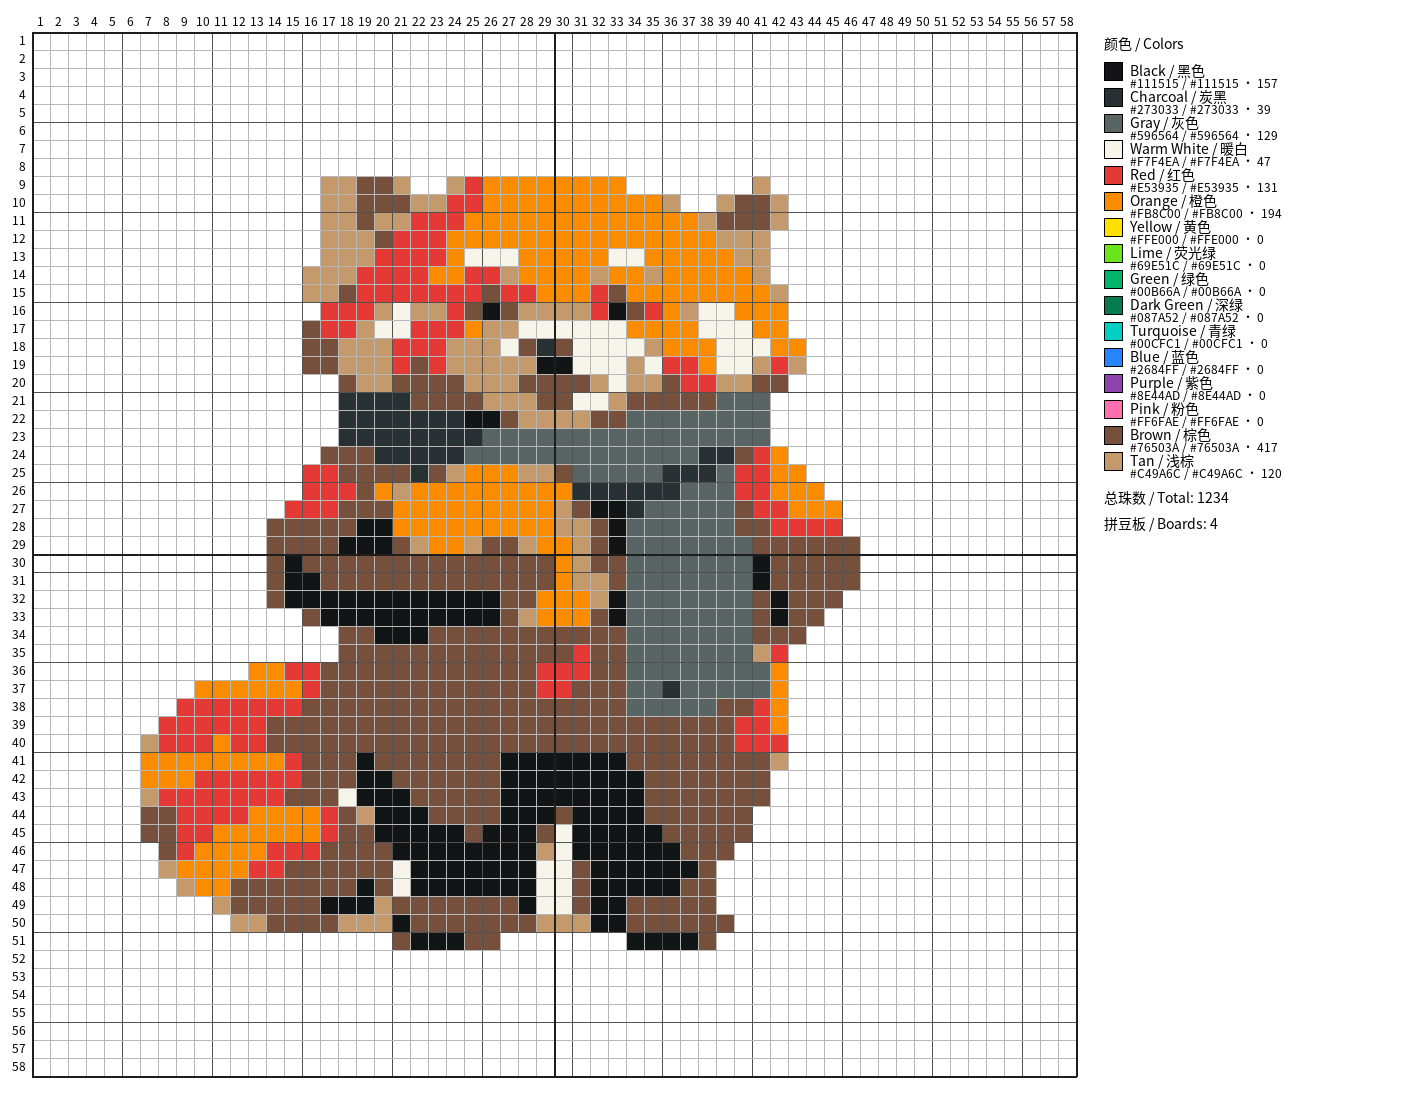
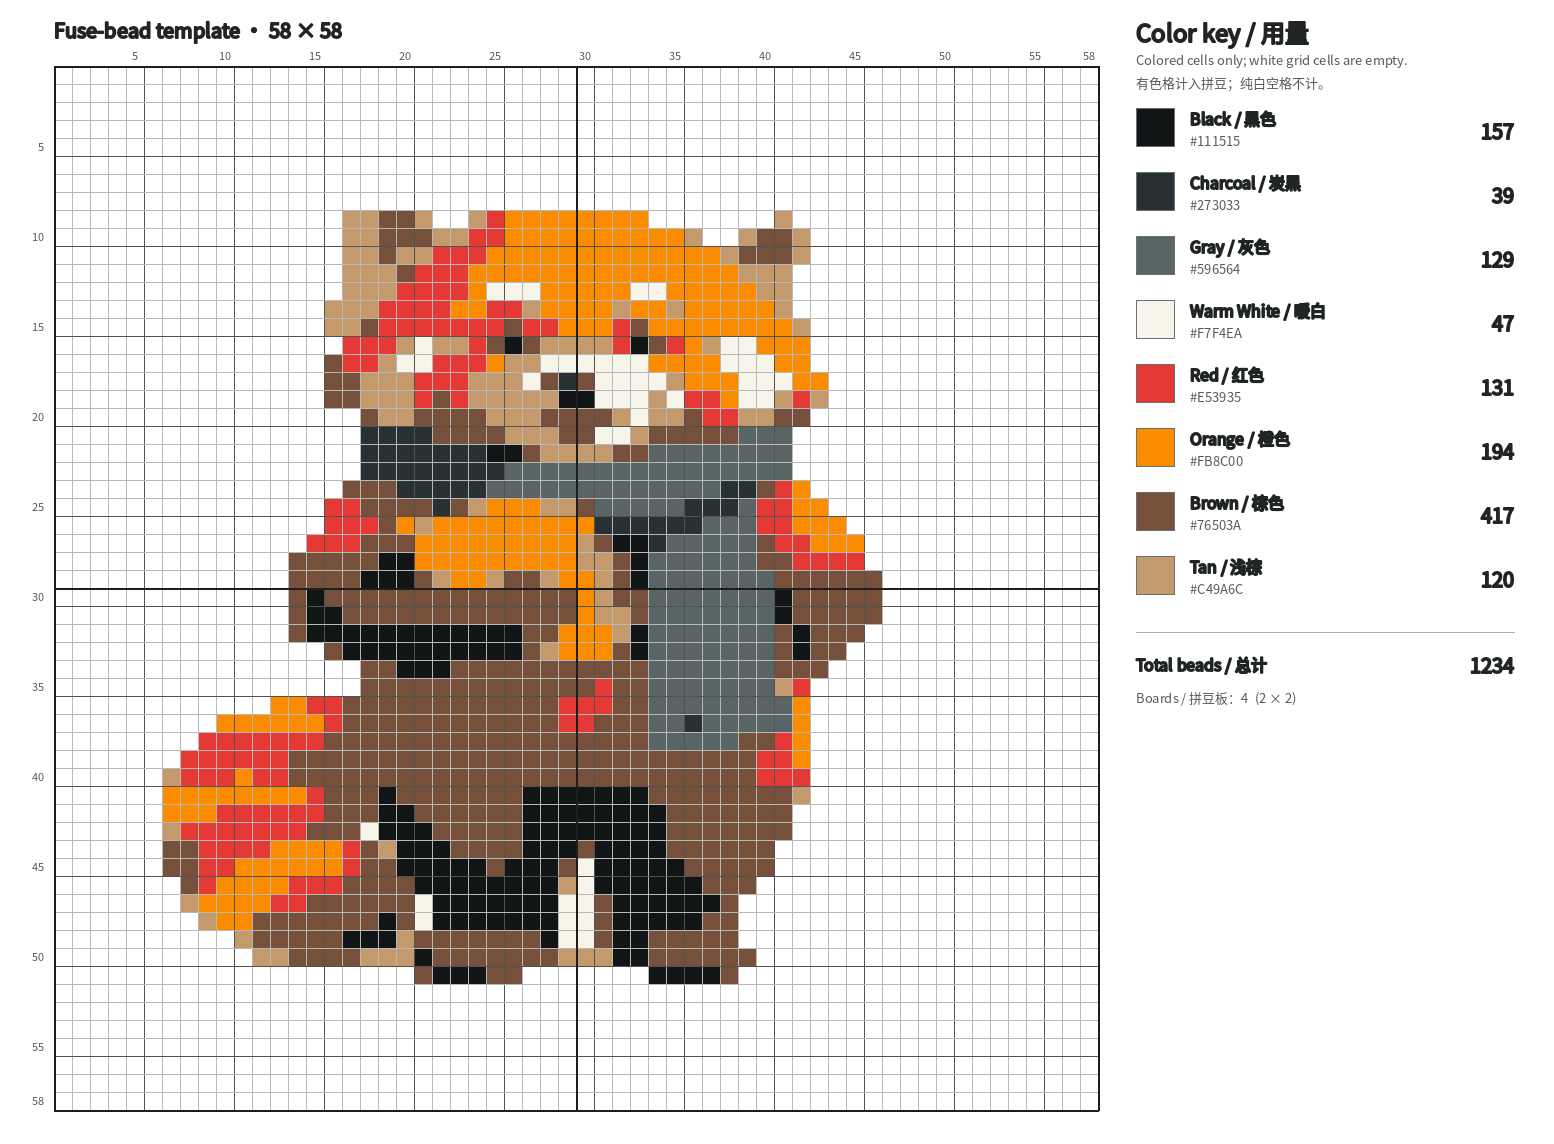
feat: modernize template legend and layout

diff --git a/plugins/fuse-bead-designer/skills/create-fuse-bead-patterns/scripts/fuse_bead_designer/render.py b/plugins/fuse-bead-designer/skills/create-fuse-bead-patterns/scripts/fuse_bead_designer/render.py
@@ -4,40 +4,61 @@ from pathlib import Path
 
 from PIL import Image, ImageDraw, ImageFont
 
-from .models import CompileReport, Pattern
+from .models import CompileReport, PaletteColor, Pattern
 
 
 FONT_PATH = Path(__file__).resolve().parents[2] / "assets" / "fonts" / "NotoSansCJKsc-Regular.otf"
-GRID_LEFT = 32
-GRID_TOP = 32
-LEGEND_GAP = 28
-LEGEND_WIDTH = 270
+GRID_LEFT = 54
+GRID_TOP = 66
+LEGEND_GAP = 38
+LEGEND_WIDTH = 390
+RIGHT_PADDING = 28
+BOTTOM_PADDING = 34
+LEGEND_ROW_HEIGHT = 64
+LEGEND_ROWS_TOP = 108
 CELL_GRID = (184, 184, 184)
 FIVE_CELL_GRID = (82, 82, 82)
 BOARD_GRID = (30, 30, 30)
+TEXT_PRIMARY = (32, 36, 37)
+TEXT_SECONDARY = (82, 90, 93)
+DIVIDER = (170, 176, 178)
 
 
 def render_template(pattern: Pattern, *, cell_size: int = 18) -> Image.Image:
     """Render a printable template using ``Pattern.cells`` as the only cell source."""
     pattern.validate()
     _validate_cell_size(cell_size)
-    font = _load_font(max(10, cell_size - 4))
-    label_font = _load_font(max(9, cell_size - 6))
+    title_font = _load_font(20)
+    legend_title_font = _load_font(24)
+    name_font = _load_font(16)
+    metadata_font = _load_font(13)
+    count_font = _load_font(20)
+    label_font = _load_font(max(9, min(11, cell_size - 3)))
     grid_width = pattern.width * cell_size
     grid_height = pattern.height * cell_size
     legend_left = GRID_LEFT + grid_width + LEGEND_GAP
-    legend_height = 56 + max(1, len(pattern.palette)) * max(26, cell_size + 8)
+    used_rows = _used_palette_rows(pattern)
+    summary_top = LEGEND_ROWS_TOP + len(used_rows) * LEGEND_ROW_HEIGHT + 12
+    legend_bottom = summary_top + 86
     image = Image.new(
         "RGBA",
         (
-            legend_left + LEGEND_WIDTH + GRID_LEFT,
-            max(GRID_TOP + grid_height + GRID_TOP, GRID_TOP + legend_height + GRID_TOP),
+            legend_left + LEGEND_WIDTH + RIGHT_PADDING,
+            max(GRID_TOP + grid_height + BOTTOM_PADDING, legend_bottom + BOTTOM_PADDING),
         ),
         "white",
     )
     draw = ImageDraw.Draw(image)
     colors = {color.id: color for color in pattern.palette}
 
+    draw.text(
+        (GRID_LEFT, 14),
+        f"Fuse-bead template · {pattern.width} × {pattern.height}",
+        fill=TEXT_PRIMARY,
+        font=title_font,
+        stroke_width=1,
+        stroke_fill=TEXT_PRIMARY,
+    )
     for row, cells in enumerate(pattern.cells):
         for column, color_id in enumerate(cells):
             left = GRID_LEFT + column * cell_size
@@ -47,7 +68,16 @@ def render_template(pattern: Pattern, *, cell_size: int = 18) -> Image.Image:
 
     _draw_labels(draw, pattern, cell_size, label_font)
     _draw_grid(draw, pattern, cell_size)
-    _draw_legend(draw, pattern, legend_left, font, label_font)
+    _draw_legend(
+        draw,
+        pattern,
+        used_rows,
+        legend_left,
+        legend_title_font,
+        name_font,
+        metadata_font,
+        count_font,
+    )
     return image
 
 
@@ -87,43 +117,142 @@ def _draw_labels(
     cell_size: int,
     font: ImageFont.FreeTypeFont,
 ) -> None:
-    for column in range(pattern.width):
-        label = str(column + 1)
+    for milestone in _coordinate_labels(pattern.width):
+        label = str(milestone)
         box = draw.textbbox((0, 0), label, font=font)
-        x = GRID_LEFT + column * cell_size + (cell_size - (box[2] - box[0])) // 2
-        draw.text((x, GRID_TOP - cell_size - 2), label, fill="black", font=font)
-    for row in range(pattern.height):
-        label = str(row + 1)
+        x = GRID_LEFT + (milestone - 0.5) * cell_size - (box[2] - box[0]) / 2
+        draw.text((x, GRID_TOP - 19), label, fill=TEXT_SECONDARY, font=font)
+    for milestone in _coordinate_labels(pattern.height):
+        label = str(milestone)
         box = draw.textbbox((0, 0), label, font=font)
-        y = GRID_TOP + row * cell_size + (cell_size - (box[3] - box[1])) // 2 - box[1]
-        draw.text((GRID_LEFT - (box[2] - box[0]) - 6, y), label, fill="black", font=font)
+        y = (
+            GRID_TOP
+            + (milestone - 0.5) * cell_size
+            - (box[3] - box[1]) / 2
+            - box[1]
+        )
+        draw.text(
+            (GRID_LEFT - (box[2] - box[0]) - 10, y),
+            label,
+            fill=TEXT_SECONDARY,
+            font=font,
+        )
 
 
 def _draw_legend(
     draw: ImageDraw.ImageDraw,
     pattern: Pattern,
+    rows: list[tuple[PaletteColor, int]],
     legend_left: int,
-    font: ImageFont.FreeTypeFont,
-    small_font: ImageFont.FreeTypeFont,
+    title_font: ImageFont.FreeTypeFont,
+    name_font: ImageFont.FreeTypeFont,
+    metadata_font: ImageFont.FreeTypeFont,
+    count_font: ImageFont.FreeTypeFont,
 ) -> None:
-    counts = pattern.color_counts()
     board_count = pattern.board_columns * pattern.board_rows
-    draw.text((legend_left, GRID_TOP), "颜色 / Colors", fill="black", font=font)
-    line_height = max(26, font.size + 10)
-    for index, color in enumerate(pattern.palette):
-        top = GRID_TOP + 30 + index * line_height
-        draw.rectangle((legend_left, top, legend_left + 18, top + 18), fill=color.hex, outline="black")
-        draw.text((legend_left + 26, top - 3), f"{color.name} / {color.name_zh}", fill="black", font=font)
-        code = color.brand_code or color.hex
-        draw.text(
-            (legend_left + 26, top + max(12, small_font.size - 1)),
-            f"{color.hex} / {code} · {counts.get(color.id, 0)}",
-            fill="black",
-            font=small_font,
+    legend_right = legend_left + LEGEND_WIDTH - 12
+    draw.text(
+        (legend_left, 14),
+        "Color key / 用量",
+        fill=TEXT_PRIMARY,
+        font=title_font,
+        stroke_width=1,
+        stroke_fill=TEXT_PRIMARY,
+    )
+    draw.text(
+        (legend_left, 49),
+        "Colored cells only; white grid cells are empty.",
+        fill=TEXT_SECONDARY,
+        font=metadata_font,
+    )
+    draw.text(
+        (legend_left, 72),
+        "有色格计入拼豆；纯白空格不计。",
+        fill=TEXT_SECONDARY,
+        font=metadata_font,
+    )
+    for index, (color, count) in enumerate(rows):
+        top = LEGEND_ROWS_TOP + index * LEGEND_ROW_HEIGHT
+        draw.rectangle(
+            (legend_left, top, legend_left + 38, top + 38),
+            fill=color.hex,
+            outline=(105, 113, 116),
+            width=1,
         )
-    total_top = GRID_TOP + 38 + max(1, len(pattern.palette)) * line_height
-    draw.text((legend_left, total_top), f"总珠数 / Total: {pattern.total_beads}", fill="black", font=font)
-    draw.text((legend_left, total_top + line_height), f"拼豆板 / Boards: {board_count}", fill="black", font=font)
+        draw.text(
+            (legend_left + 54, top - 2),
+            f"{color.name} / {color.name_zh}",
+            fill=TEXT_PRIMARY,
+            font=name_font,
+            stroke_width=1,
+            stroke_fill=TEXT_PRIMARY,
+        )
+        draw.text(
+            (legend_left + 54, top + 22),
+            _color_metadata(color),
+            fill=TEXT_SECONDARY,
+            font=metadata_font,
+        )
+        count_box = draw.textbbox((0, 0), str(count), font=count_font)
+        draw.text(
+            (legend_right - (count_box[2] - count_box[0]), top + 7),
+            str(count),
+            fill=TEXT_PRIMARY,
+            font=count_font,
+            stroke_width=1,
+            stroke_fill=TEXT_PRIMARY,
+        )
+    total_top = LEGEND_ROWS_TOP + len(rows) * LEGEND_ROW_HEIGHT + 12
+    draw.line((legend_left, total_top, legend_right, total_top), fill=DIVIDER, width=1)
+    draw.text(
+        (legend_left, total_top + 20),
+        "Total beads / 总计",
+        fill=TEXT_PRIMARY,
+        font=name_font,
+        stroke_width=1,
+        stroke_fill=TEXT_PRIMARY,
+    )
+    total = str(pattern.total_beads)
+    total_box = draw.textbbox((0, 0), total, font=count_font)
+    draw.text(
+        (legend_right - (total_box[2] - total_box[0]), total_top + 17),
+        total,
+        fill=TEXT_PRIMARY,
+        font=count_font,
+        stroke_width=1,
+        stroke_fill=TEXT_PRIMARY,
+    )
+    draw.text(
+        (legend_left, total_top + 55),
+        f"Boards / 拼豆板：{board_count}  ({pattern.board_columns} × {pattern.board_rows})",
+        fill=TEXT_SECONDARY,
+        font=metadata_font,
+    )
+
+
+def _coordinate_labels(size: int) -> list[int]:
+    """Return sparse coordinate labels for five-cell navigation."""
+    milestones = list(range(5, size + 1, 5))
+    if size >= 5 and size % 5:
+        milestones.append(size)
+    return milestones
+
+
+def _used_palette_rows(pattern: Pattern) -> list[tuple[PaletteColor, int]]:
+    """Return used colors in palette order with their canonical counts."""
+    counts = pattern.color_counts()
+    return [
+        (color, counts[color.id])
+        for color in pattern.palette
+        if counts.get(color.id, 0) > 0
+    ]
+
+
+def _color_metadata(color: PaletteColor) -> str:
+    """Format a color's HEX and optional brand code without duplication."""
+    if color.brand_code:
+        return f"{color.hex} · {color.brand_code}"
+    return color.hex
 
 
 def _draw_review_markers(

diff --git a/tests/test_render.py b/tests/test_render.py
@@ -11,7 +11,14 @@ from fuse_bead_designer.models import (
     Pattern,
     VerificationState,
 )
-from fuse_bead_designer.render import FONT_PATH, render_template
+from fuse_bead_designer.render import (
+    FONT_PATH,
+    LEGEND_WIDTH,
+    _color_metadata,
+    _coordinate_labels,
+    _used_palette_rows,
+    render_template,
+)
 
 
 def make_pattern(*, inferred_cells=None, is_custom_size=True):
@@ -187,6 +194,33 @@ def test_template_contains_grid_labels_legend_and_portable_cjk_font():
     assert ImageFont.truetype(FONT_PATH, 16).getmask("红色").getbbox() is not None
 
 
+def test_coordinate_labels_show_only_five_cell_milestones():
+    assert _coordinate_labels(4) == []
+    assert _coordinate_labels(29) == [5, 10, 15, 20, 25, 29]
+    assert _coordinate_labels(58) == [5, 10, 15, 20, 25, 30, 35, 40, 45, 50, 55, 58]
+
+
+def test_legend_contains_only_used_colors_and_right_side_has_room():
+    pattern = make_pattern()
+    pattern.palette.append(PaletteColor("blue", "Blue", "蓝色", "#2684FF"))
+
+    rows = _used_palette_rows(pattern)
+
+    assert [(color.id, count) for color, count in rows] == [
+        ("red", 3),
+        ("white", 1),
+    ]
+    assert LEGEND_WIDTH >= 360
+
+
+def test_color_metadata_does_not_duplicate_hex_without_brand_code():
+    generic = PaletteColor("white", "Warm White", "暖白", "#F7F4EA")
+    branded = PaletteColor("red", "Red", "红色", "#FF0000", "R01")
+
+    assert _color_metadata(generic) == "#F7F4EA"
+    assert _color_metadata(branded) == "#FF0000 · R01"
+
+
 def test_standard_template_draws_five_cell_and_29_board_boundaries():
     pattern = Pattern(
         width=29,
@@ -199,7 +233,7 @@ def test_standard_template_draws_five_cell_and_29_board_boundaries():
 
     image = render_template(pattern, cell_size=4)
 
-    # Grid origin is public renderer geometry: labels occupy the 32-pixel margin.
-    grid_left, grid_top = 32, 32
+    # Grid origin is public renderer geometry.
+    grid_left, grid_top = 54, 66
     assert image.getpixel((grid_left + 5 * 4, grid_top + 2))[:3] == (82, 82, 82)
     assert image.getpixel((grid_left + 29 * 4, grid_top + 2))[:3] == (30, 30, 30)
